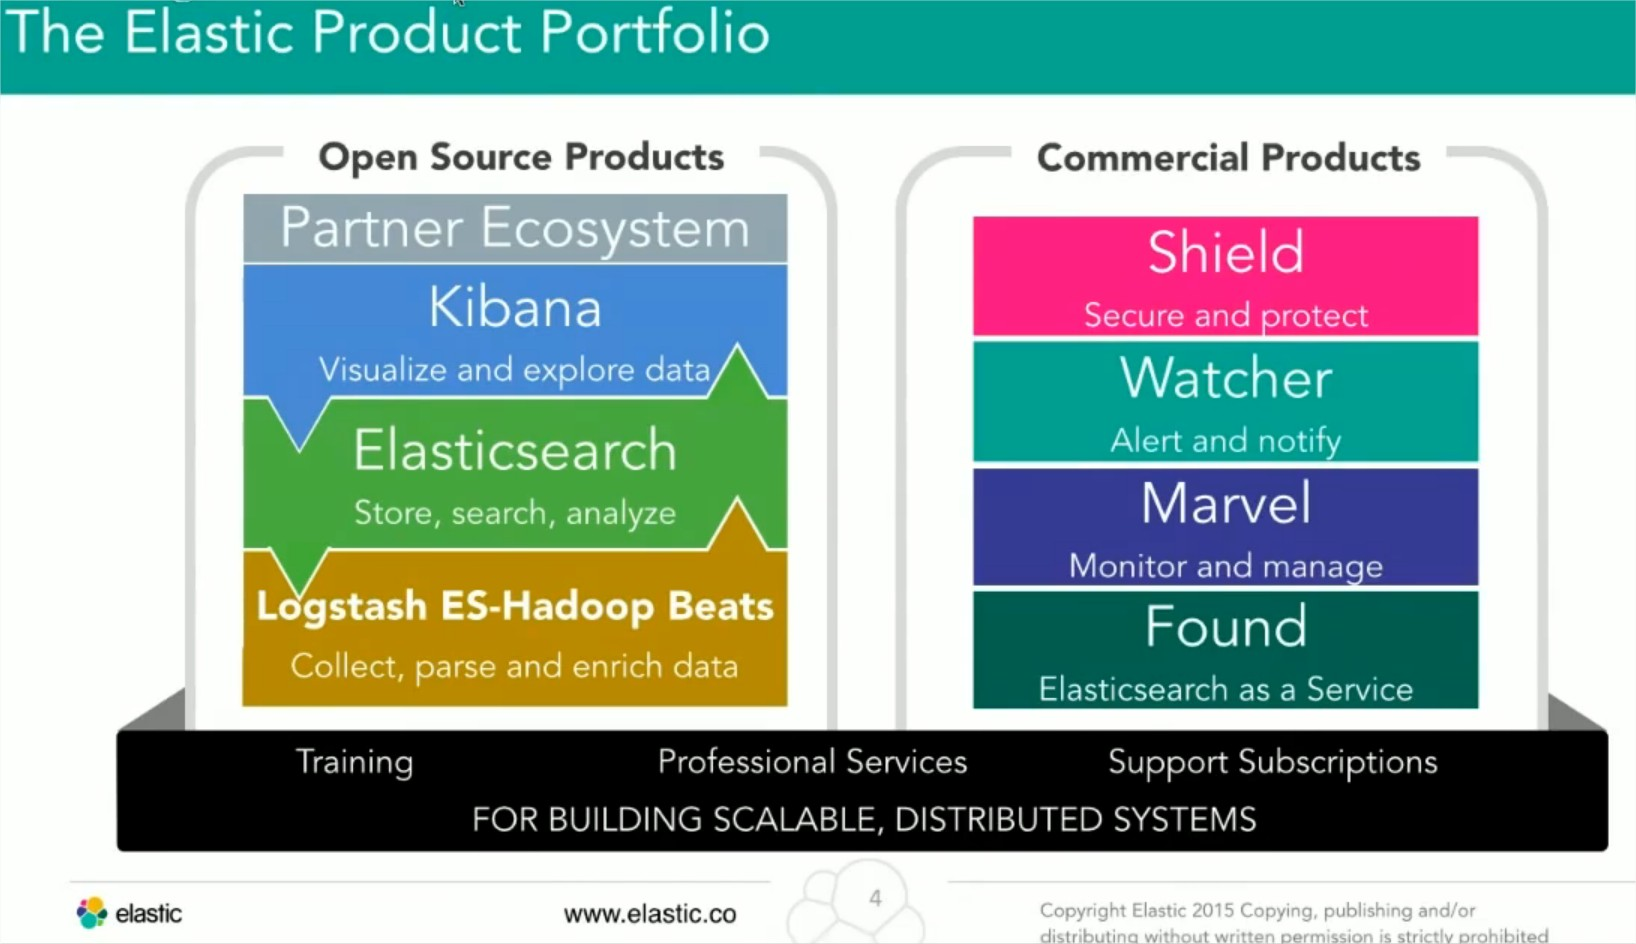
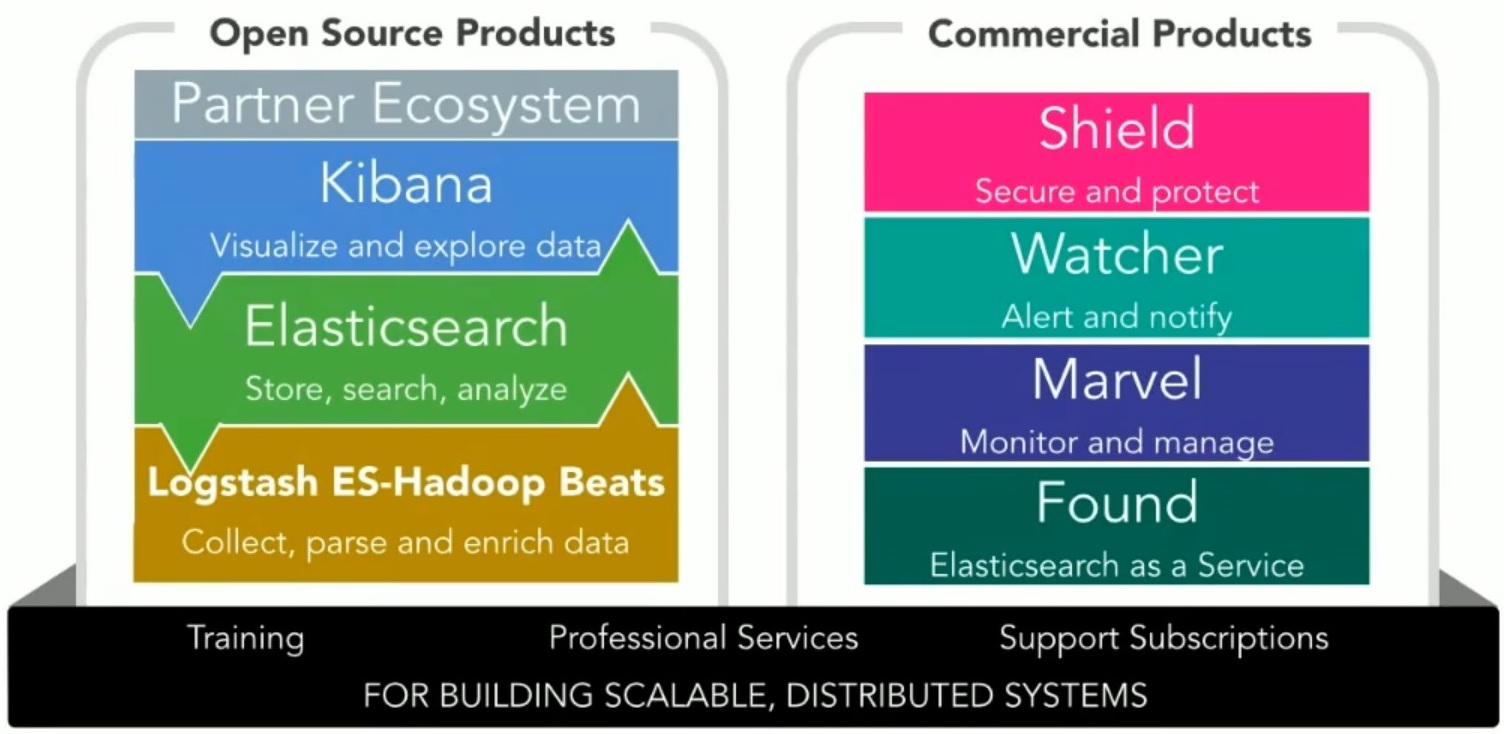
Improve presentation

diff --git a/index.html b/index.html
@@ -16,10 +16,11 @@
     </div>
 
     <header id="title" class="step" data-x="-1000" data-y="-1500">
-        <h1>     Collecte et analyse de données</h1>
+        <h1>Analyse de données</h1>
+        <img src="img/big-data.jpg" alt="Big data" width="835">
     </header>
 
-    <section class="step slide" data-x="1000" data-y="-1500">
+    <section class="step slide" data-x="0" data-y="-1500">
         <h1>Pourquoi collecter ?</h1><br/>
         <img src="img/collecting-logs-goal.jpg" alt="Collecting logs goal" width="835">
     </section>
@@ -28,41 +29,66 @@
         <span class="slide-corner"></span>
         <h1>Log - Un lexique de l'écosystème</h1><br/>
         <p><b>Inverted index</b> : definition</p>
-        <p><b>Machine datas</b> : definition</p>
+        <p><b>Machine-generated datas</b> : big data generated by your technology infrastructure, security systems and business application</p>
         <p><b>Operational Intelligence</b> : definition</p>
+        <p><b>SIEM</b> : definition</p>
         <p><b>Shipper</b> : definition</p>
     </section>
 
-    <section class="step slide" data-x="3000" data-y="-1500">
-        <h1>Machine datas In</h1><br/>
-        <img src="img/machine-data.jpg" alt="Machine data" width="835">
+    <section class="step slide" data-x="2000" data-y="-1500">
+        <h1>Machine-generated datas kesako ?</h1><br/>
+        <ol>
+            <li>Security events</li>
+            <li>Security risks and threats</li>
+            <li>Network activity, fraudulent activity</li>
+            <li>User clickstreams and transactions</li>
+            <li>Machine  behavior</li>
+            <li>Capacity consumption</li>
+            <li>Customer experience</li>
+            <li>Customer behavior</li>
+        </ol>
     </section>
 
     <section class="step slide" data-x="3000" data-y="-1500">
-        <h1>Operational Intelligence Out</h1><br/>
-        <img src="img/operational-intelligence.jpg" alt="Operational Intelligence" width="835">
+        <h1>Machine-generated datas In</h1><br/>
+        <img src="img/machine-data.jpg" alt="Machine data" width="835">
     </section>
-    
-    <section class="step slide" data-x="3000" data-y="-1500">
+
+    <section class="step slide" data-x="4000" data-y="-1500">
+        <h1>Operational Intelligence Out</h1><br/>
+        <img src="img/operational-intelligence.png" alt="Operational Intelligence" width="835">
+    </section>
+
+    <section class="step slide" data-x="5000" data-y="-1500">
+        <h1>Turn Machine Data Into Insights</h1><br/>
+        <img src="img/machine-data-sources.png" alt="Turn Machine Data Into Insights" width="835">
+    </section>
+   
+    <section class="step slide" data-x="6000" data-y="-1500">
+        <h1>Turn Machine Data Into Insights</h1><br/>
+        <img src="img/machine-data-sources-2.jpg" alt="Turn Machine Data Into Insights" width="835">
+    </section>
+     
+    <section class="step slide" data-x="7000" data-y="-1500">
         <h1>Principe d'Architecture</h1><br/>
         <img src="img/archi-elk.jpg" alt="Archi ELK" width="800">
     </section>
 
-    <section class="step slide" data-x="3000" data-y="-1500">
+    <section class="step slide" data-x="8000" data-y="-1500">
         <h1>Architecture à scalabilté horizontale</h1><br/>
         <img src="img/archi-elk-scale.jpg" alt="Archi ELK scale" width="800">
     </section>
 
-    <section class="step slide" data-x="3000" data-y="-1500">
-        <h1>Machinne learning à la rescousse</h1><br/>
+    <section class="step slide" data-x="9000" data-y="-1500">
+        <h1>Machine learning à la rescousse</h1><br/>
         <img src="img/archi-elk-ml.jpg" alt="Archi ELK ML" width="800">
     </section>
 
-    <section class="step slide" data-x="3000" data-y="-1500">
+    <section class="step slide" data-x="10000" data-y="-1500">
         <img src="img/splunk-logo.png" alt="Splunk logo">
     </section>
 
-    <section class="step slide" data-x="3000" data-y="-1500">
+    <section class="step slide" data-x="11000" data-y="-1500">
         <span class="slide-corner"><img src="img/splunk-icon.png" alt="Splunk icon" height="36" width="36"/></span>
         <h1>Splunk - La référence</h1><br/>
         <ol>
@@ -70,7 +96,7 @@
         </ol>
     </section>
 
-    <section class="step slide" data-x="3000" data-y="-1500">
+    <section class="step slide" data-x="12000" data-y="-1500">
         <span class="slide-corner"><img src="img/splunk-icon.png" alt="Splunk icon" height="36" width="36"/></span>
         <h1>Splunk - Pros</h1><br/>
         <ol>
@@ -80,7 +106,7 @@
         </ol>
     </section>
 
-    <section class="step slide" data-x="4000" data-y="-1500">
+    <section class="step slide" data-x="13000" data-y="-1500">
         <span class="slide-corner"><img src="img/splunk-icon.png" alt="Splunk icon" height="36" width="36"/></span>
         <h1>Splunk - Cons</h1><br/>
         <ol>
@@ -90,11 +116,11 @@
         </ol>
     </section>
 
-    <section class="step slide" data-x="4000" data-y="-1500">
+    <section class="step slide" data-x="14000" data-y="-1500">
         <img src="img/graylog-logo.png" alt="Graylog logo">
     </section>
 
-    <section class="step slide" data-x="4000" data-y="-1500">
+    <section class="step slide" data-x="15000" data-y="-1500">
         <span class="slide-corner"><img src="img/graylog-icon.jpg" alt="Graylog icon" height="42" width="42"/></span>
         <h1>Graylog - Présentation</h1><br/>
         <ol>
@@ -102,7 +128,7 @@
         </ol>
     </section>
 
-    <section class="step slide" data-x="4000" data-y="-1500">
+    <section class="step slide" data-x="16000" data-y="-1500">
         <span class="slide-corner"><img src="img/graylog-icon.jpg" alt="Graylog icon" height="42" width="42"/></span>
         <h1>Graylog - Pros</h1><br/>
         <ol>
@@ -110,7 +136,7 @@
         </ol>
     </section>
 
-    <section class="step slide" data-x="4000" data-y="-1500">
+    <section class="step slide" data-x="17000" data-y="-1500">
         <span class="slide-corner"><img src="img/graylog-icon.jpg" alt="Graylog icon" height="42" width="42"/></span>
         <h1>Graylog - Cons</h1><br/>
         <ol>
@@ -118,11 +144,16 @@
         </ol>
     </section>
 
-    <section class="step slide" data-x="4000" data-y="-1500">
+    <section class="step slide" data-x="18000" data-y="-1500">
         <img src="img/elk-logos.png" alt="Elk logo" height="600" width="600">
     </section>
 
-    <section class="step slide" data-x="4000" data-y="-1500">
+    <section class="step slide" data-x="19000" data-y="-1500">
+        <h1>The Elastic Product Portfolio</h1><br/>
+        <img src="img/ELK-product-portfolio.jpg" alt="ELK portfolio" width="800">
+    </section>
+
+    <section class="step slide" data-x="20000" data-y="-1500">
         <span class="slide-corner"><img src="img/graylog-icon.jpg" alt="Graylog icon" height="42" width="42"/></span>
         <h1>ELK stack - Pros</h1><br/>
         <ol>
@@ -138,7 +169,7 @@
         </ol>
     </section>
 
-    <section class="step slide" data-x="4000" data-y="-1500">
+    <section class="step slide" data-x="21000" data-y="-1500">
         <span class="slide-corner"><img src="img/graylog-icon.jpg" alt="Graylog icon" height="42" width="42"/></span>
         <h1>ELK stack - Cons</h1><br/>
         <ol>
